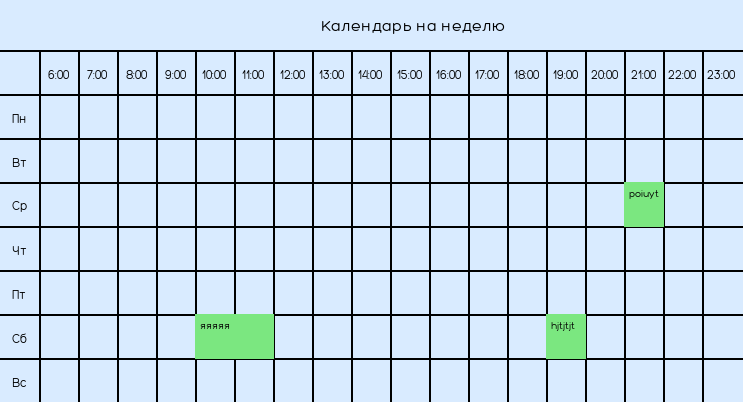
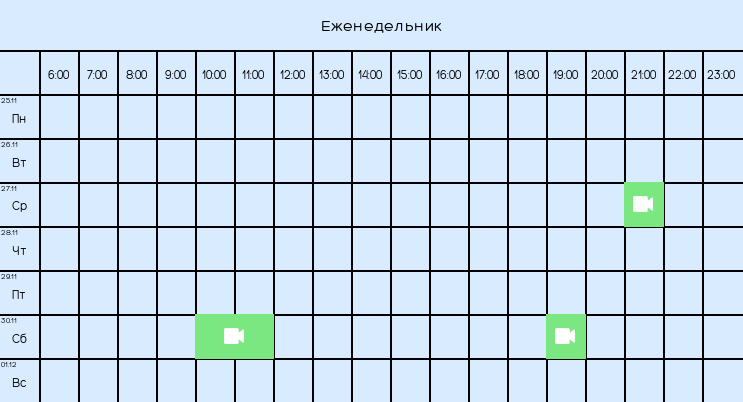
ДИРИЖАБЛЬ, АГА

diff --git a/src/bot/handlers/vks.py b/src/bot/handlers/vks.py
@@ -10,10 +10,11 @@ from src.auth import service as auth_service
 router = Router()
 
 # Клавиатура
-button = KeyboardButton(text="Расписание на эту неделю")
-keyboard = ReplyKeyboardMarkup(keyboard=[[button]], resize_keyboard=True)
+button1 = KeyboardButton(text="Еженедельник на эту неделю")
+button2 = KeyboardButton(text="Еженедельник на следующую неделю")
+keyboard = ReplyKeyboardMarkup(keyboard=[[button1],[button2]], resize_keyboard=True)
 
-@router.message(F.text == "Расписание на эту неделю")
+@router.message(F.text == "Еженедельник на эту неделю")
 async def cmd_view_my_meetings(message: Message):
     current_user = await auth_service.UserService.get_by_telegram_id(telegram_id=message.from_user.id)
 
@@ -64,12 +65,70 @@ async def cmd_view_my_meetings(message: Message):
                 f.write(image.read())
 
             input_file = FSInputFile("schedule.png")
-            await message.answer_photo(input_file, caption="Ваше расписание на неделю")
+            await message.answer_photo(input_file, caption="Ваш еженедельник на эту неделю")
         else:
             await message.answer("На этой неделе нет мероприятий.")
 
     except Exception as err:
-        await message.answer(f"Произошла ошибка при обработке запроса: {err}")
+        await message.answer(f"Произошла ошибка")
+
+
+@router.message(F.text == "Еженедельник на следующую неделю")
+async def cmd_view_my_meetings(message: Message):
+    current_user = await auth_service.UserService.get_by_telegram_id(telegram_id=message.from_user.id)
+
+    if current_user is None:
+        await message.answer("Вы не авторизованы")
+        return
+
+    current_user_token = current_user.token.get("token")
+    base_url = "https://test.vcc.uriit.ru/api/meetings"
+    headers = {
+        "Authorization": f"Bearer {current_user_token}",
+        "accept": "application/json",
+    }
+    now = datetime.utcnow()
+
+    # Определение начала и конца недели
+    start_of_week = now - timedelta(days=now.weekday()) + timedelta(days=7)
+    end_of_week = start_of_week + timedelta(days=6) + timedelta(days=7)
+
+    params = {
+        "fromDatetime": start_of_week.isoformat(),
+        "toDatetime": end_of_week.isoformat(),
+        "buildingId": 2,
+        "sort_by": "id",
+    }
+
+    try:
+        async with AsyncClient() as client:
+            response = await client.get(base_url, headers=headers, params=params)
+            response.raise_for_status()
+
+        response_data = response.json()
+        meetings = response_data.get("data", [])
+
+        if meetings:
+            events = {
+                meeting["id"]: {
+                    "start": datetime.fromisoformat(meeting["startedAt"]),
+                    "end": datetime.fromisoformat(meeting["endedAt"]),
+                    "text": meeting.get("name", "Не указано")
+                }
+                for meeting in meetings
+            }
+
+            image = await create_calendar_image(start_of_week, end_of_week, events)
+            with open("schedule.png", "wb") as f:
+                f.write(image.read())
+
+            input_file = FSInputFile("schedule.png")
+            await message.answer_photo(input_file, caption="Ваш еженедельник на следующую неделю")
+        else:
+            await message.answer("На следующей неделе нет мероприятий")
+
+    except Exception as err:
+        await message.answer(f"Произошла ошибка")
 
 
 async def create_calendar_image(start_of_week, end_of_week, events):
@@ -82,9 +141,10 @@ async def create_calendar_image(start_of_week, end_of_week, events):
     font = ImageFont.truetype(font_path, 12)
     font_title = ImageFont.truetype(font_path, 16)
     font_events = ImageFont.truetype(font_path, 10)
+    font_date = ImageFont.truetype(font_path, 8)
 
     # Заголовок
-    draw.text((width // 2 - 50, 15), "Календарь на неделю", font=font_title, fill=(0, 0, 0))
+    draw.text((width // 2 - 50, 15), "Еженедельник", font=font_title, fill=(0, 0, 0))
 
     # Таблица
     table_start_y = 50
@@ -99,7 +159,10 @@ async def create_calendar_image(start_of_week, end_of_week, events):
 
     # Дни недели
     days_of_week = ["Пн", "Вт", "Ср", "Чт", "Пт", "Сб", "Вс"]
+    current_date = start_of_week
+
     for i, day in enumerate(days_of_week):
+        # Рисуем день недели
         bbox = draw.textbbox((0, 0), day, font=font)
         text_width = bbox[2] - bbox[0]
         text_height = bbox[3] - bbox[1]
@@ -109,6 +172,20 @@ async def create_calendar_image(start_of_week, end_of_week, events):
             font=font,
             fill=(0, 0, 0)
         )
+
+        # Рисуем дату
+        date_text = current_date.strftime("%d.%m")
+        draw.text(
+            (1, table_start_y + i * row_height + 45),  # Левый верхний угол ячейки
+            date_text,
+            font=font_date,
+            fill=(0, 0, 0)
+        )
+
+        # Переходим к следующей дате
+        current_date += timedelta(days=1)
+
+    
     
     # Время с 6:00 до 23:00
     times = [f"{hour}:00" for hour in range(6, 24)]  
@@ -123,7 +200,6 @@ async def create_calendar_image(start_of_week, end_of_week, events):
             fill=(0, 0, 0)
         )
 
-    # Выделение событий
     for event_id, event_data in events.items():
         try:
             event_start = event_data["start"]
@@ -134,16 +210,20 @@ async def create_calendar_image(start_of_week, end_of_week, events):
             end_y = start_y + row_height
 
             draw.rectangle([start_x, start_y, end_x, end_y], fill=(123, 231, 128))
-            draw.text(
-                (start_x + 5, start_y + 5),
-                (event_data["text"][:10] + "...") if len(event_data["text"]) > 10 else event_data["text"],
-                font=font_events,
-                fill=(0, 0, 0)
-            )
+
+            camera_emoji_image = Image.open('src/bot/handlers/camera_emoji.png')
+
+            center_x = (start_x + end_x) // 2
+            center_y = (start_y + end_y) // 2
+
+            camera_emoji_resized = camera_emoji_image.resize((20, 16))
+
+            camera_emoji_position = (center_x - 20 // 2, center_y - 16 // 2)
+            image.paste(camera_emoji_resized, camera_emoji_position, camera_emoji_resized)
+
         except Exception as e:
             print(f"Ошибка обработки события {event_id}: {e}")
 
-    # Сохранение изображения в буфер
     image_io = BytesIO()
     image.save(image_io, format="PNG")
     image_io.seek(0)
